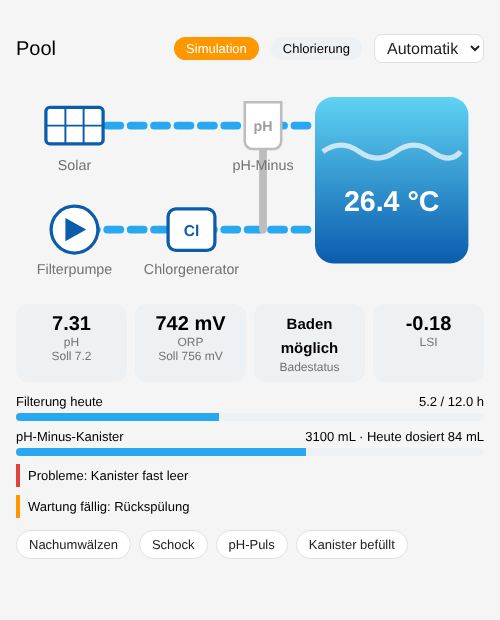
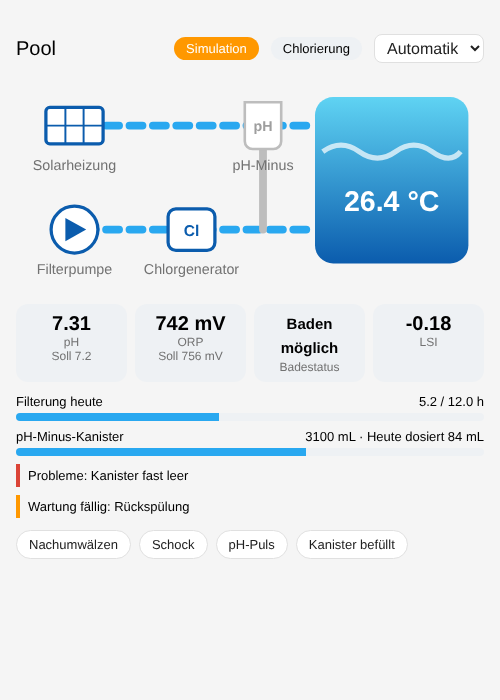
Limit card schematic size and release 1.0.0-beta.2
Claude-Session: https://claude.ai/code/session_01MRGyBauHUi3Rpj6U9xdAT7

diff --git a/custom_components/pool_control/frontend/pool-control-card.js b/custom_components/pool_control/frontend/pool-control-card.js
@@ -7,7 +7,7 @@
  */
 
 const DOMAIN = "pool_control";
-const VERSION = "1.0.0-beta.1";
+const VERSION = "1.0.0-beta.2";
 
 const STRINGS = {
   en: {
@@ -89,7 +89,8 @@ const STYLE = `
   select { font: inherit; padding: 4px 8px; border-radius: 8px;
     border: 1px solid var(--divider-color); background: var(--card-background-color);
     color: var(--primary-text-color); }
-  svg { width: 100%; height: auto; display: block; }
+  .schematic { display: block; width: 100%; max-width: 560px; max-height: 240px;
+    height: auto; margin: 0 auto; }
   .pipe { fill: none; stroke: var(--disabled-color, #bdbdbd); stroke-width: 6;
     stroke-linecap: round; }
   .pipe.on { stroke: #29a8f0; stroke-dasharray: 10 8; animation: flow 1s linear infinite; }
@@ -277,7 +278,7 @@ class PoolControlCard extends HTMLElement {
       <path d="M${x - 22} ${y} h44 M${x - 7} ${y - 14} v28 M${x + 7} ${y - 14} v28" stroke="${on ? "#0b5cad" : "#9e9e9e"}" stroke-width="1.5"/>`;
 
     return `
-      <svg viewBox="0 0 360 170" role="img">
+      <svg class="schematic" viewBox="0 0 360 170" role="img">
         <defs>
           <linearGradient id="water" x1="0" y1="0" x2="0" y2="1">
             <stop offset="0" stop-color="#5fd3f3"/><stop offset="1" stop-color="#0b5cad"/>

diff --git a/CHANGELOG.md b/CHANGELOG.md
@@ -4,6 +4,18 @@ All notable changes to this project are documented in this file. The format
 is based on [Keep a Changelog](https://keepachangelog.com/en/1.1.0/) and the
 project uses [Semantic Versioning](https://semver.org/).
 
+## [1.0.0-beta.2] - 2026-10-25
+
+### Fixed
+
+- Dashboard card: schematic limited in size on wide dashboards
+- Dashboard card is registered even if the frontend loads after the
+  integration
+
+### Added
+
+- Test bench and guide for trying Pool Control without hardware
+
 ## [1.0.0-beta.1] - 2026-10-25
 
 Complete rewrite. Existing config entries are not migrated and must be set up
